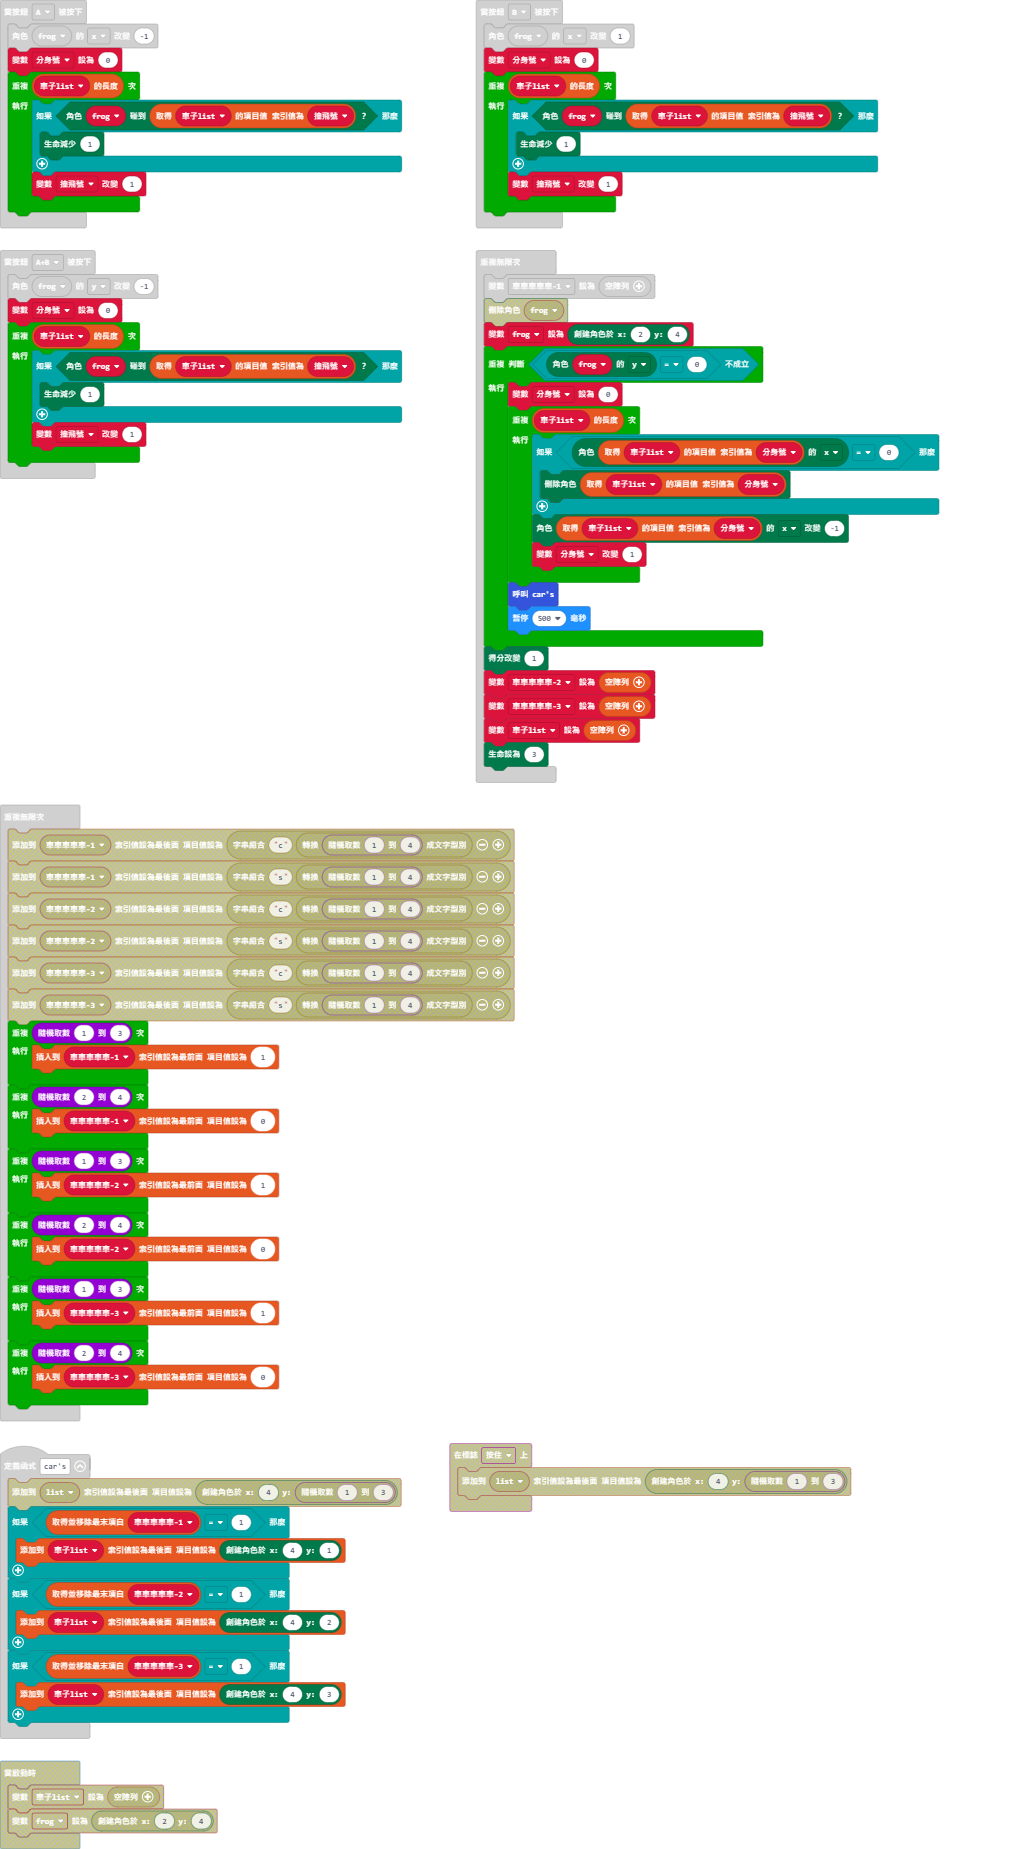
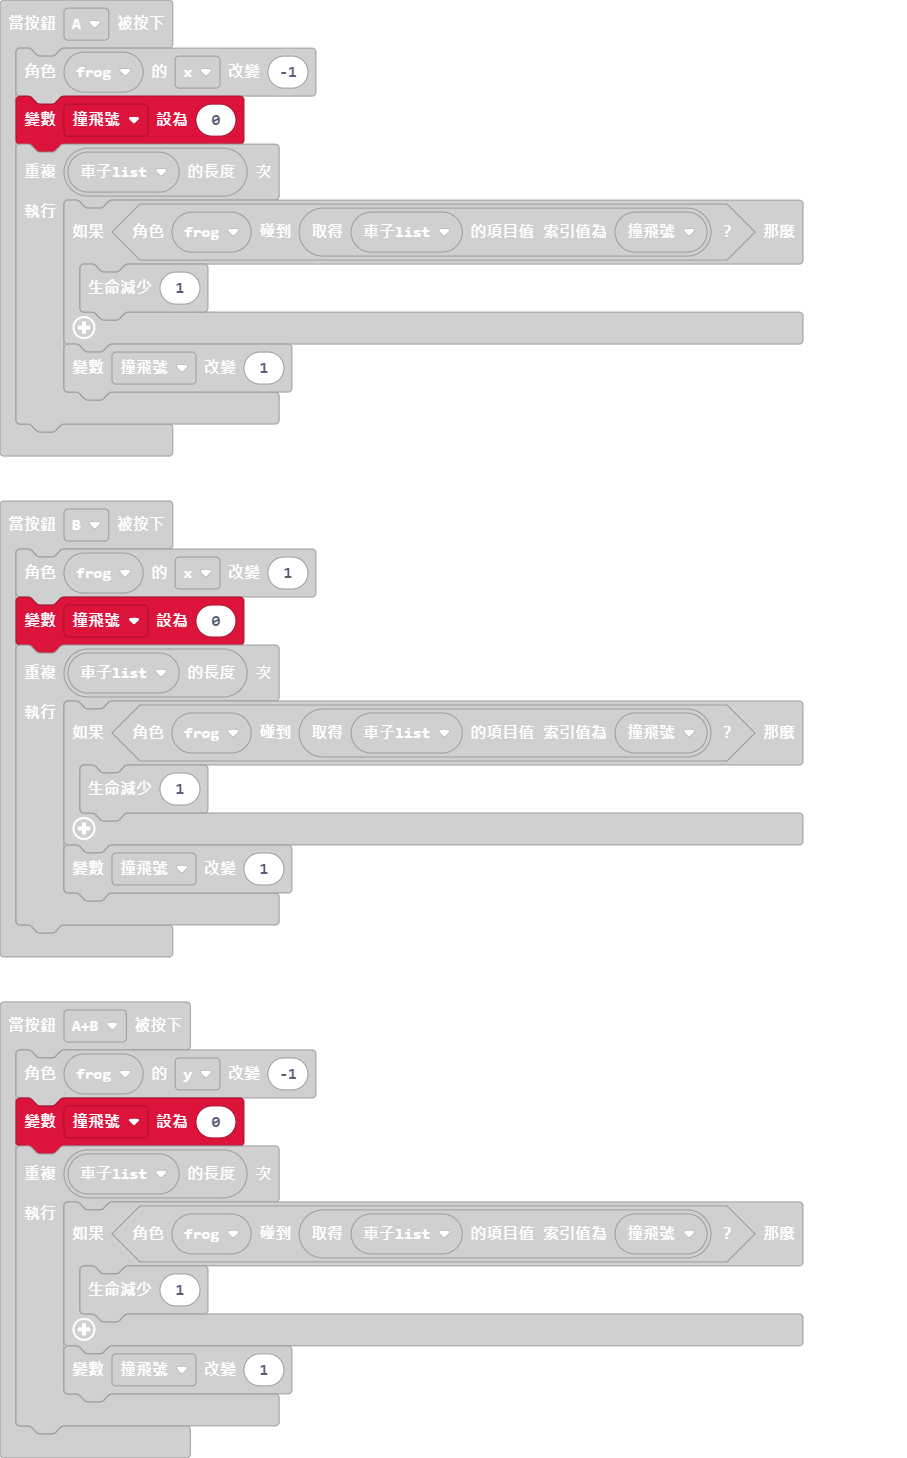
更新 main.blocks, main.ts

diff --git a/main.ts b/main.ts
@@ -3,8 +3,8 @@ let 車子list: game.LedSprite[] = []
 let 車車車車車2: number[] = []
 let 車車車車車3: number[] = []
 let frog: game.LedSprite = null
-let 分身號 = 0
 let 撞飛號 = 0
+let 分身號 = 0
 function cars () {
     if (車車車車車1.pop() == 1) {
         車子list.push(game.createSprite(4, 1))
@@ -18,7 +18,7 @@ function cars () {
 }
 input.onButtonPressed(Button.A, function () {
     frog.change(LedSpriteProperty.X, -1)
-    分身號 = 0
+    撞飛號 = 0
     for (let index = 0; index < 車子list.length; index++) {
         if (frog.isTouching(車子list[撞飛號])) {
             game.removeLife(1)
@@ -28,7 +28,7 @@ input.onButtonPressed(Button.A, function () {
 })
 input.onButtonPressed(Button.AB, function () {
     frog.change(LedSpriteProperty.Y, -1)
-    分身號 = 0
+    撞飛號 = 0
     for (let index = 0; index < 車子list.length; index++) {
         if (frog.isTouching(車子list[撞飛號])) {
             game.removeLife(1)
@@ -38,7 +38,7 @@ input.onButtonPressed(Button.AB, function () {
 })
 input.onButtonPressed(Button.B, function () {
     frog.change(LedSpriteProperty.X, 1)
-    分身號 = 0
+    撞飛號 = 0
     for (let index = 0; index < 車子list.length; index++) {
         if (frog.isTouching(車子list[撞飛號])) {
             game.removeLife(1)
